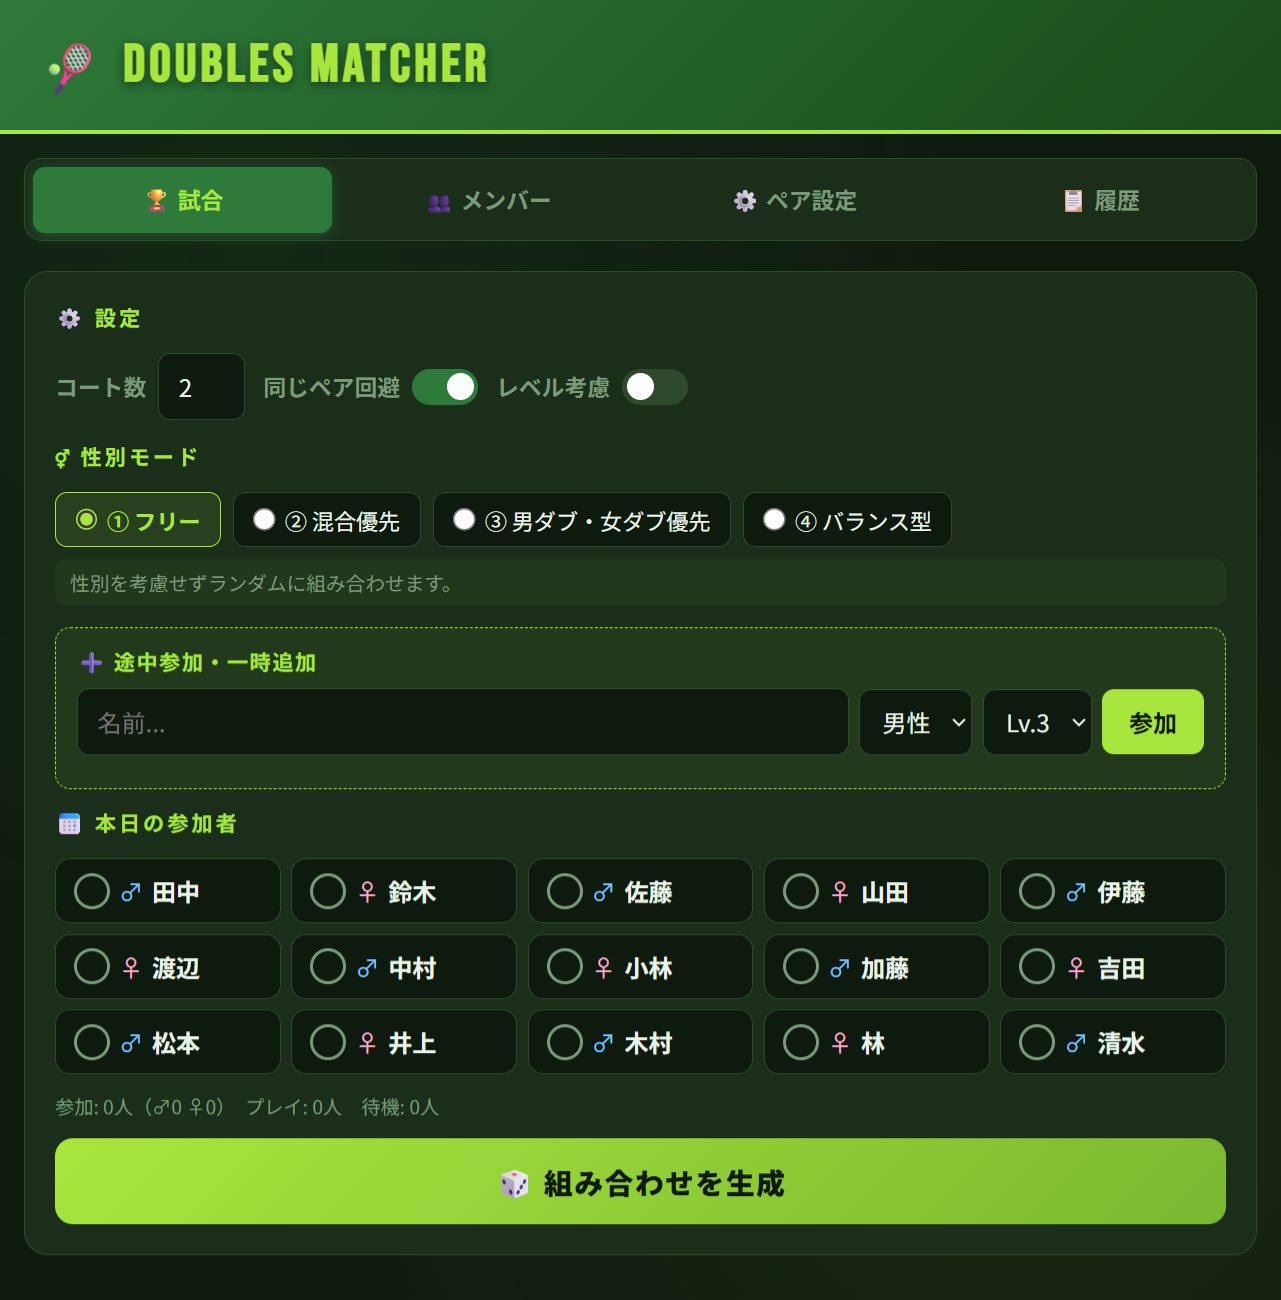
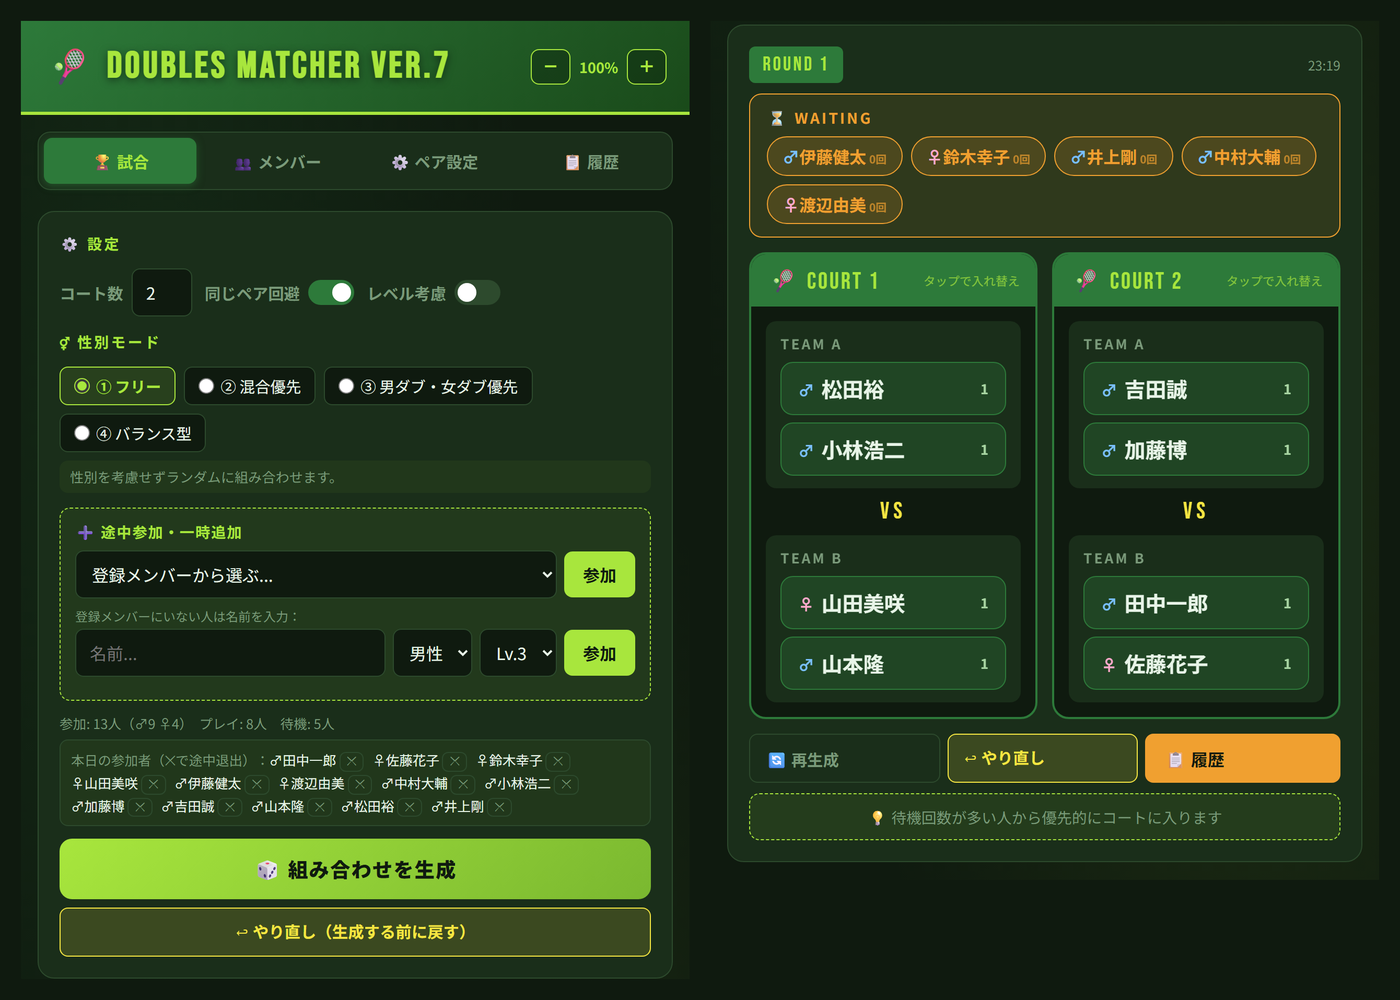
アプリページ大幅更新

diff --git a/app-download.html b/app-download.html
@@ -144,7 +144,7 @@
 <div class="hero">
   <div class="hero-badge">🎾 FREE APP · WORKS OFFLINE · NO INSTALL REQUIRED</div>
   <h1>DOUBLES MATCHER</h1>
-  <p>フレッシュテニスのダブルスペア 自動組み合わせアプリ</p>
+  <p>フレッシュテニスのダブルスペア 自動組み合わせアプリ　<strong>最新版 Ver.7</strong></p>
 </div>
 
 <div class="main">
@@ -163,27 +163,47 @@
     <div class="feature-card">
       <span class="feature-icon">🎲</span>
       <h3>ワンタップで組み合わせ生成</h3>
-      <p>参加者を選んでボタンを押すだけで、コートごとのダブルスペアを自動で組み合わせます。</p>
+      <p>コート数（1〜10面）を決めてボタンを押すだけで、コートごとのダブルスの対戦を自動で組み合わせます。気に入らなければ「🔄 再生成」。</p>
     </div>
     <div class="feature-card">
       <span class="feature-icon">⚖</span>
       <h3>公平なローテーション</h3>
-      <p>待機回数・ペア履歴を記録し、同じ組み合わせや偏りが出ないよう自動調整します。</p>
+      <p>試合数・待機回数・ペア履歴を記録し、同じ人ばかり休む・同じペアが続くといった偏りが出ないよう自動調整します。</p>
     </div>
     <div class="feature-card">
       <span class="feature-icon">⚥</span>
-      <h3>性別モード対応</h3>
-      <p>フリー・混合優先・男女別・バランス型の4モードから練習スタイルに合わせて選択できます。</p>
+      <h3>性別モード4種類</h3>
+      <p>フリー・混合優先・男ダブ女ダブ優先・バランス型の4モードから、練習スタイルに合わせて選べます。メンバーごとにLv.1〜5のレベルも登録できます。</p>
     </div>
     <div class="feature-card">
-      <span class="feature-icon">🔗</span>
-      <h3>URLでメンバー共有</h3>
-      <p>登録メンバーをURLに埋め込んでLINEなどで共有。どの端末からでも同じメンバーで使えます。</p>
+      <span class="feature-icon">⚙</span>
+      <h3>ペア設定（固定・排除・コート固定）</h3>
+      <p>「この2人は必ずペア」「この2人は組ませない」「この人はこのコート」を指定できます。コート固定の人も、出るか休むかは待機の公平さで決まり、出るラウンドで指定のコートに入ります。</p>
+    </div>
+    <div class="feature-card">
+      <span class="feature-icon">🔁</span>
+      <h3>途中参加・途中退出 <span style="color:var(--orange);font-size:.75rem;">Ver.7</span></h3>
+      <p>遅れて来た人は登録メンバーのリストから選ぶか、名前を入れるだけで参加。帰る人は名前の横の ✕ で退出。どちらも試合画面のまま操作でき、試合数の公平さも保たれます。</p>
+    </div>
+    <div class="feature-card">
+      <span class="feature-icon">👆</span>
+      <h3>タップで入れ替え・やり直し</h3>
+      <p>組み合わせ後に2人をタップすると入れ替えられます。生成し直す前の状態には「↩ やり直し」で戻せます（最大20回）。</p>
+    </div>
+    <div class="feature-card">
+      <span class="feature-icon">📤</span>
+      <h3>メンバーの共有・移行と復元</h3>
+      <p>メンバー一覧をテキストでコピーしてLINEで送ったり、JSONファイルで別の端末に移したりできます。誤って消した人も「🛟 メンバー復元」で戻せます。</p>
     </div>
     <div class="feature-card">
       <span class="feature-icon">📋</span>
       <h3>試合履歴を記録</h3>
-      <p>ラウンドごとの組み合わせと待機メンバーを履歴に自動保存。ラウンド数・試合数も集計します。</p>
+      <p>ラウンドごとの組み合わせと待機メンバーを自動保存し、ラウンド数・試合数も集計します。履歴だけ消してもメンバーは残ります。</p>
+    </div>
+    <div class="feature-card">
+      <span class="feature-icon">🔍</span>
+      <h3>文字サイズを調整</h3>
+      <p>画面上部の「－ ％ ＋」で表示サイズを50〜125%に変えられます。コートの横で見る人数や画面の大きさに合わせてどうぞ。</p>
     </div>
     <div class="feature-card">
       <span class="feature-icon">📱</span>
@@ -198,9 +218,10 @@
     <h3 style="font-family:'Bebas Neue',sans-serif;font-size:1.6rem;margin:0.6rem 0 1rem;letter-spacing:0.04em;">使い方</h3>
     <ol>
       <li><strong>アプリを開く</strong>：下の「アプリを開く」ボタンをタップします。ブラウザ（Safari・Chrome等）でそのまま動作します。インストール不要です。</li>
-      <li><strong>メンバー登録</strong>：「メンバー」タブから名前・レベル・性別を登録します。</li>
-      <li><strong>参加者を選択</strong>：「試合」タブで本日の参加者にチェックを入れます。</li>
-      <li><strong>組み合わせ生成</strong>：「組み合わせを生成」ボタンを押すだけ！</li>
+      <li><strong>メンバー登録</strong>：「メンバー」タブで名前・性別・レベルを登録します（最初はサンプルのメンバーが入っています）。</li>
+      <li><strong>参加者を選択</strong>：「メンバー」タブの「📅 本日の参加者」で、来ている人にチェックを入れます（全員ON／OFFボタンもあります）。</li>
+      <li><strong>組み合わせ生成</strong>：「試合」タブでコート数と性別モードを選び、「🎲 組み合わせを生成」を押すだけ！</li>
+      <li><strong>途中参加・退出</strong>：「試合」タブの「➕ 途中参加・一時追加」から参加、「本日の参加者」の名前の横の ✕ で退出。次の組み合わせから反映されます。</li>
     </ol>
 
     <div style="background:var(--sky-light);border-radius:1rem;padding:1.2rem 1.4rem;margin-top:1.4rem;border-left:4px solid var(--sky);">

diff --git a/admin.html b/admin.html
@@ -44,6 +44,11 @@
     details .body { margin-top:1rem; font-size:.85rem; color:#46493f; line-height:1.8; }
     #fallbackEntry { width:100%; min-height:140px; font-family:monospace; font-size:.8rem; margin-top:.6rem; }
     .warn { color:#c0492f; font-weight:700; }
+    #pushReminder { display:none; margin-top:1.2rem; padding:1.2rem 1.3rem; background:#fff4e0; border:3px solid #e08a00; color:#5a3500; }
+    #pushReminder.show { display:block; }
+    #pushReminder h2 { font-size:1.2rem; font-weight:900; margin-bottom:.6rem; color:#b45f00; }
+    #pushReminder ol { margin:.2rem 0 .6rem 1.4rem; font-size:.92rem; line-height:1.9; }
+    #pushReminder .small { font-size:.8rem; color:#7a5a2a; }
   </style>
 </head>
 <body>
@@ -54,7 +59,7 @@
   <div class="note">
     🔒 このページは<strong>あなたのPCの中だけ</strong>で動きます（サーバーには何も送りません）。<br>
     フォームに入力して「保存して反映」を押すと、<code>blog/</code> に記事ページが作られ、<code>posts.js</code> に自動登録されます。<br>
-    そのあとは、いつも通り <strong>GitHub Desktop でコミット → Vercel が自動公開</strong>。<br>
+    そのあと <strong>必ず GitHub Desktop でコミット → プッシュ</strong>してください。プッシュしないとホームページに出ません（GitHub Pages に数分で反映）。<br>
     <span class="warn">※ Chrome または Edge で開いてください（フォルダ書き込み機能を使います）。</span>
   </div>
 
@@ -89,6 +94,19 @@
   </div>
 
   <div id="status"></div>
+
+  <div id="pushReminder">
+    <h2>⚠ まだ公開されていません — GitHub Desktop でプッシュしてください</h2>
+    <ol>
+      <li>GitHub Desktop を開き、左上の Current repository が <b>pitin</b> になっているか確認</li>
+      <li>左下の Summary に「ブログ更新」などと書いて <b>Commit to main</b></li>
+      <li>上の <b>Push origin</b> を押す</li>
+    </ol>
+    <div class="small">数分後に https://gamaken216.github.io/pitin/ のブログ欄に出ます。</div>
+  </div>
+
+  <div class="step">Step 3 — GitHub Desktop でプッシュ（必須）</div>
+  <div class="hint" style="font-size:.84rem;">保存しただけではホームページに出ません。GitHub Desktop で <b>Commit to main</b> → <b>Push origin</b> まで行ってください。</div>
 
   <details>
     <summary>うまく動かないとき（手動で使う方法）</summary>
@@ -290,8 +308,8 @@ $('saveBtn').addEventListener('click', async () => {
       '✅ 反映しました。\n' +
       '・blog/' + d.fileName + ' を作成\n' +
       (d.imgName ? '・blog/' + d.imgName + ' を保存\n' : '') +
-      '・posts.js の先頭に登録\n\n' +
-      'このあと GitHub Desktop でコミット → Vercel が自動公開します。', true);
+      '・posts.js の先頭に登録', true);
+    showPushReminder();
     // フォームを軽くリセット（日付はそのまま）
     $('f-title').value=''; $('f-excerpt').value=''; $('f-body').value=''; $('f-image').value='';
   } catch(e){ showStatus('エラー：' + e.message, false); }
@@ -313,6 +331,7 @@ $('dlBtn').addEventListener('click', () => {
     a.href = URL.createObjectURL(blob); a.download = d.fileName; a.click();
     $('fallbackEntry').value = buildPostsEntry(d);
     showStatus('記事HTMLをダウンロードしました。下のテキストを posts.js に貼り付けてください（写真は手動で blog/ に入れて、名前を ' + (d.imgName||'（なし）') + ' にしてください）。', true);
+    showPushReminder();
   } catch(e){ showStatus(e.message, false); }
 });
 $('copyBtn').addEventListener('click', () => {
@@ -320,6 +339,12 @@ $('copyBtn').addEventListener('click', () => {
     navigator.clipboard.writeText(t); showStatus('posts.js用テキストをコピーしました。', true);
   } catch(e){ showStatus(e.message, false); }
 });
+
+// 保存後に「プッシュしてください」の枠を出す
+function showPushReminder(){
+  const el = $('pushReminder'); el.classList.add('show');
+  el.scrollIntoView({behavior:'smooth', block:'center'});
+}
 
 function showStatus(msg, ok){
   const el = $('status'); el.textContent = msg; el.className = ok ? 'ok' : 'err';
